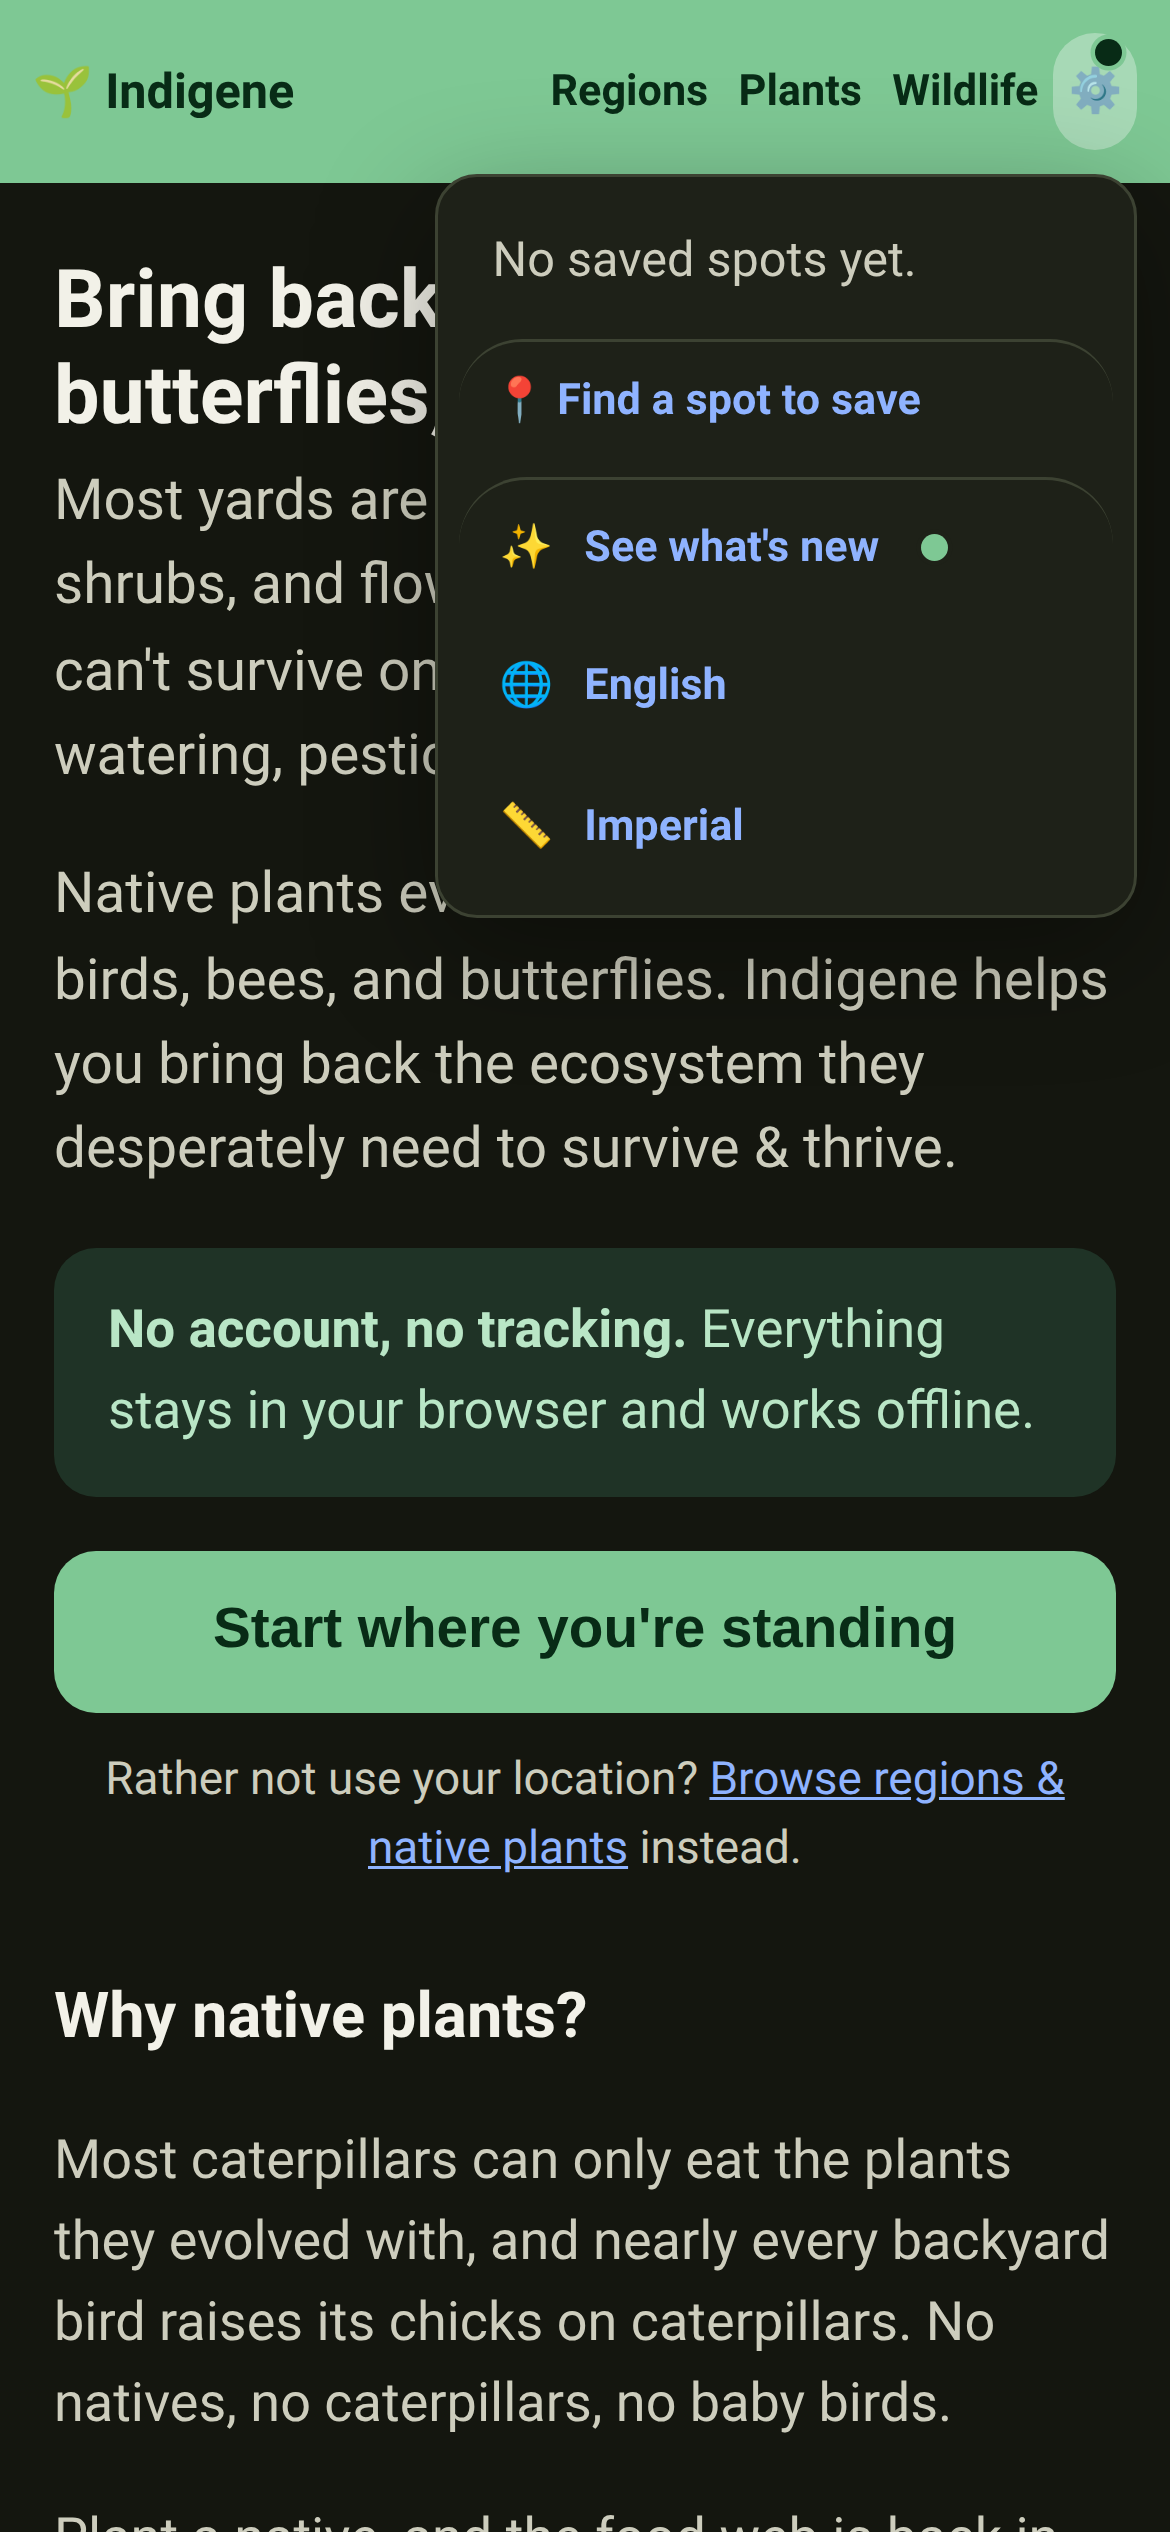
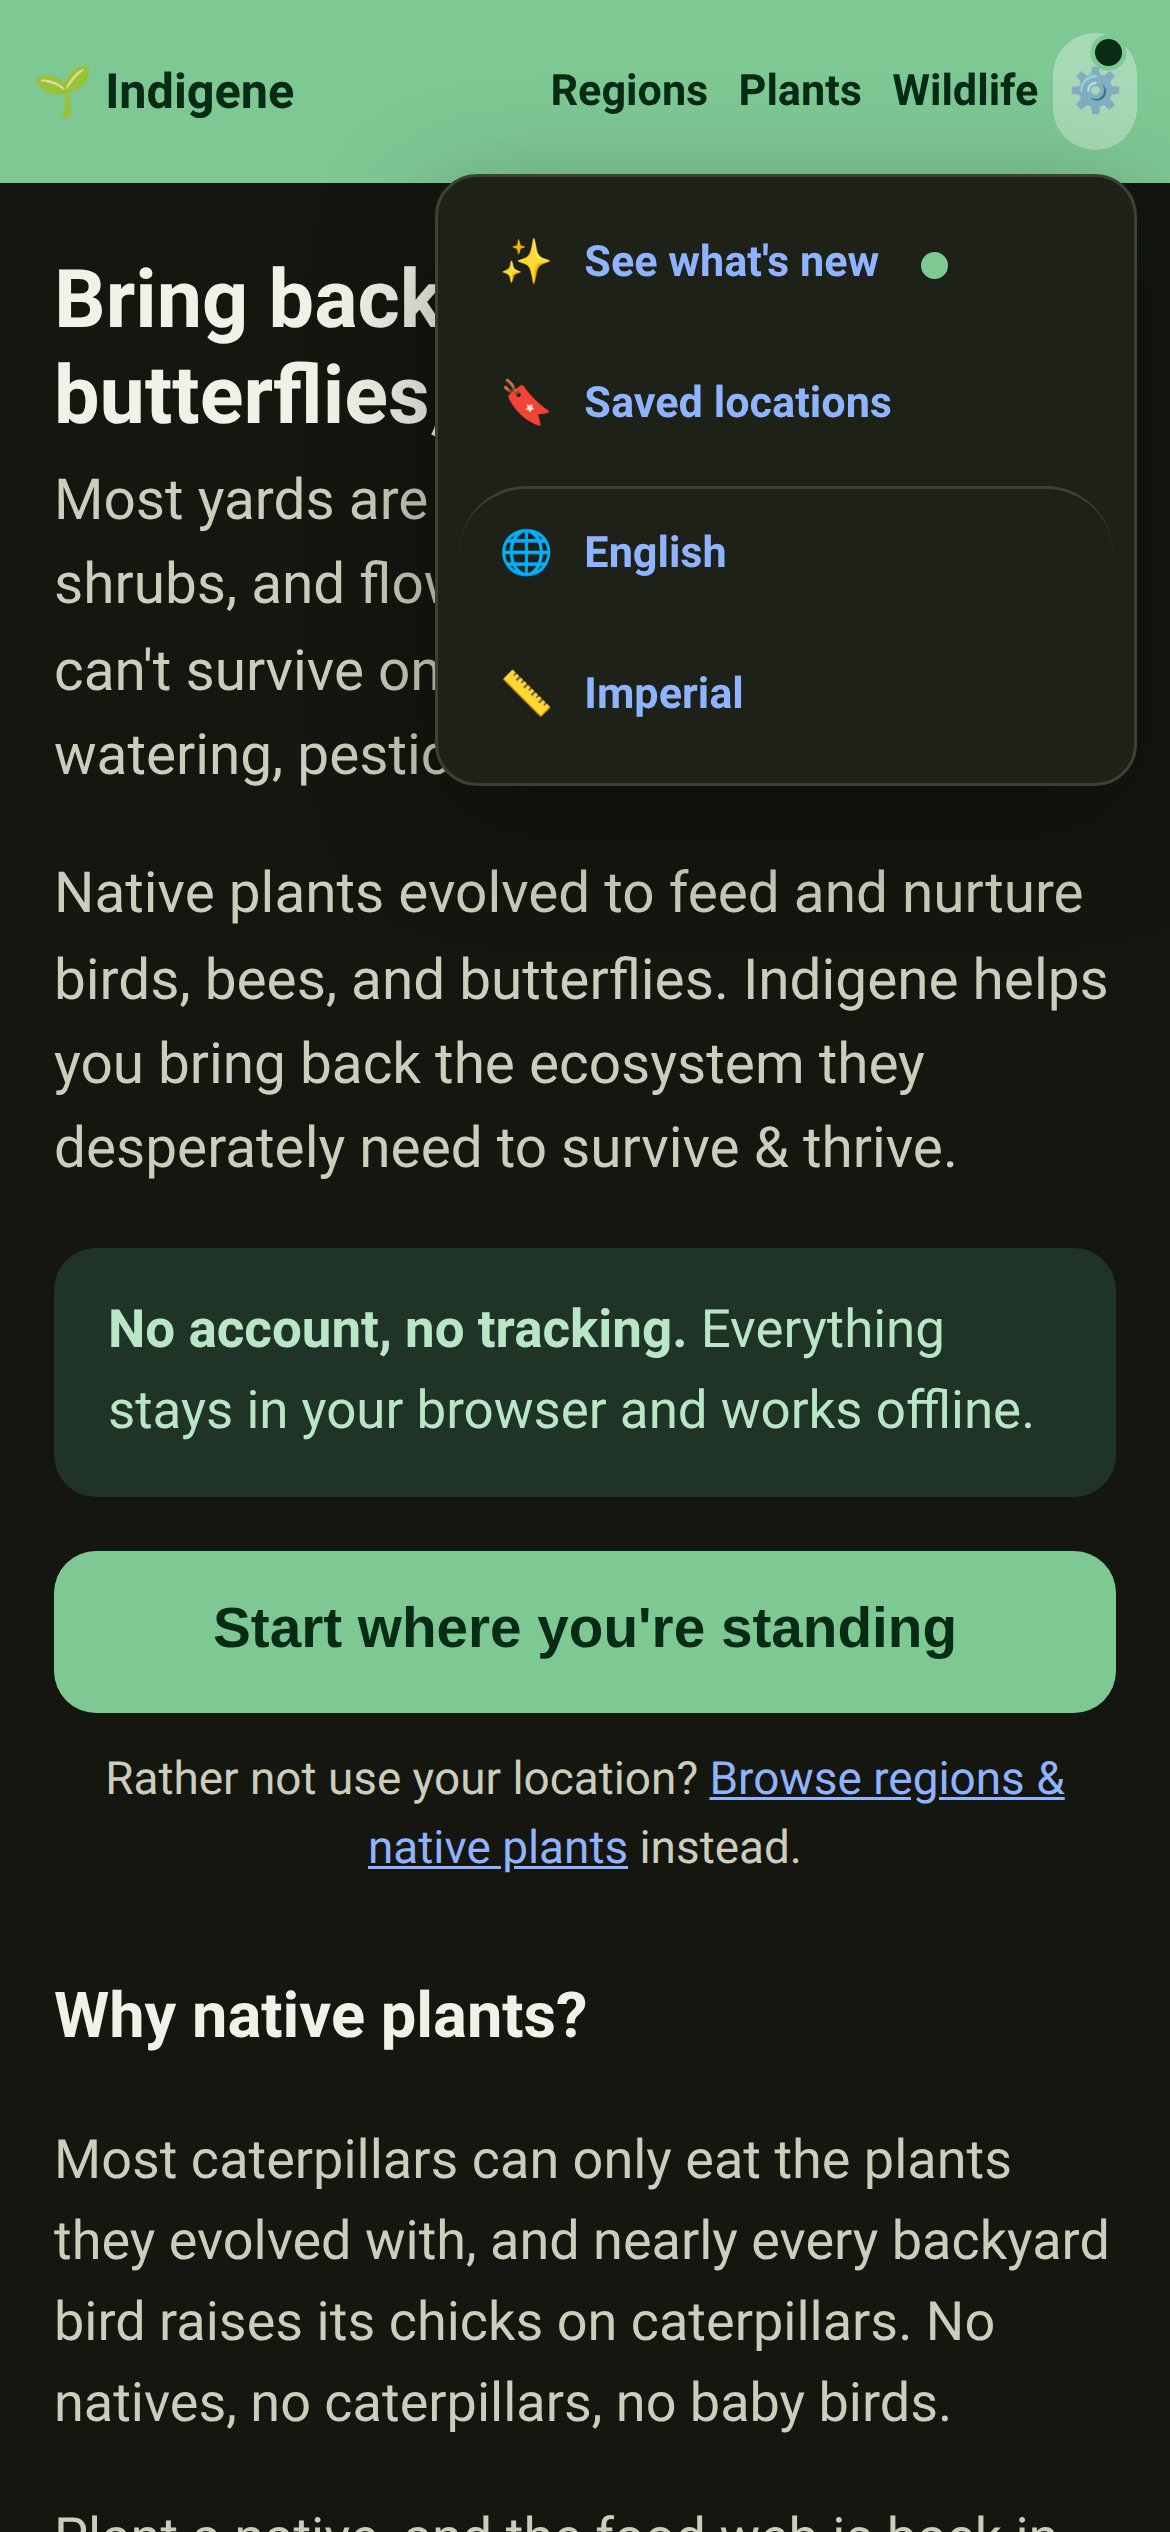
Menu: What's new first, saved spots as a way through
The gear wears the "something's new" dot, so the thing it points at
should be the first row you meet, not the third.

Saved spots stop being a list inside the panel and become one row
through to the Saved page. The list looked like a shortcut and behaved
like a wait: opening the menu opened the database, so the panel needed a
loading state, an error state with a retry, and an empty state — three
screens' worth of behaviour inside a dropdown, for a list the Saved page
already shows better, and which is where opening, renaming and deleting
already lived. The panel is now synchronous and right on the first frame.

The seven savedMenu.* strings go with it, from both locales. The two
settings rows now take their accessible name from the footer's own
"Language: {value}" phrases rather than gluing a colon on in code, which
had been imposing English colon spacing on French.

Verified at 360 and 390px: four rows in order, each on one line, no
overflow, dot on the first row only, and every href intact.

Changed region(s): [[0.4308, 0.0936, 0.8308, 0.2808], [0.3692, 0.312, 0.9231, 0.4056]]

diff --git a/app/src/components/app-menu.ts b/app/src/components/app-menu.ts
@@ -2,20 +2,32 @@
 //
 // It started life as a Saved-locations menu: saved spots used to be a third
 // top-level nav tab, and on a phone that pushed the header past its width. It
-// still holds those, but it is now the app's general menu, because it is the
-// only spare surface in a header measured to the pixel (see the ≤500px rules in
-// styles.css — title + four items with ~25 px of slack at 360 px). Anything
-// that should be reachable from every page without owning a tab belongs here.
-// Today that's three things:
+// is now the app's general menu, because it is the only spare surface in a
+// header measured to the pixel (see the ≤500px rules in styles.css — title +
+// four items with ~25 px of slack at 360 px). Anything that should be reachable
+// from every page without owning a tab belongs here. Today that's four rows, in
+// this order:
 //
-//   1. Your saved spots, as a quick jump back without leaving for the full
-//      Saved page (which stays, for managing and deleting).
-//   2. What's new, which is here because the gear is what wears the "something
-//      landed since you were last here" dot on every screen — a badge you can
-//      see from anywhere needs somewhere to go when you press it.
-//   3. Language and units, one row each — the settings most likely to be
+//   1. What's new, first, because the gear is what wears the "something landed
+//      since you were last here" dot on every screen — a badge you can see from
+//      anywhere needs the thing it points at to be the first thing you meet.
+//   2. Saved spots, as a way through to the Saved page.
+//   3–4. Language and units, one row each — the settings most likely to be
 //      wanted by someone who can't read the page they're looking at, and
 //      therefore the ones worst served by living only at the bottom of it.
+//
+// ## Why the panel no longer lists the spots themselves
+//
+// It used to show up to six saved spots inline, each a button that reopened
+// that spot. That made the menu the only asynchronous thing in the header: it
+// had to open the database on every press, and therefore had to have a loading
+// state, an error state with a retry, and an empty state — three screens' worth
+// of behaviour, inside a dropdown, for a list the Saved page already shows
+// better. A link costs one row and is right on the first frame.
+//
+// The reopen-a-spot gesture isn't lost, it moved: it lives on the Saved page,
+// which is where managing and deleting already were, so there is one place that
+// does all of it rather than a fast path that does some of it.
 //
 // The icon follows the contents: a bookmark promised saved spots and nothing
 // else, so it became a gear as soon as the panel held two unlike things.
@@ -24,14 +36,10 @@
 // fight and we control open/close: refresh on open, close on outside-click, on
 // Escape, on selection, and on navigation (the router calls closeAppMenu).
 import { el } from "../ui";
-import { listSpots } from "../db";
-import { openSavedSpot } from "../state";
 import { t } from "../lib/i18n";
 import { langLabel, unitsLabel } from "./chrome";
 import { hasUnseenRelease } from "../lib/visits";
 import { newDot } from "./new-dot";
-
-const MAX_IN_MENU = 6;
 
 let btn: HTMLButtonElement | null = null;
 let panel: HTMLElement | null = null;
@@ -68,7 +76,7 @@ function openMenu(): void {
   if (!btn || !panel) return;
   btn.setAttribute("aria-expanded", "true");
   panel.hidden = false;
-  void populate(panel);
+  fill(panel);
 }
 
 /** Close the menu if it's open — also called by the router on every navigation. */
@@ -79,23 +87,22 @@ export function closeAppMenu(): void {
 }
 
 /**
- * The language and units rows at the foot of the panel — two of them, matching
- * the footer, because they are two settings and not one "locale". A single
- * "English · Imperial" line invites exactly the assumption the app spends a
- * whole comment block in `prefs-controls.ts` refusing to make.
+ * One row of the panel: an icon, a label, and optionally the "there's something
+ * new" dot.
  *
- * Each shows its current *value* rather than the word "Settings", for the
- * reader these rows are really for: someone looking at a page in a language
- * they don't read recognises "English" as the thing to press long before they
- * parse a label they can't read either. The icon carries the other half of the
- * meaning, and the accessible name spells out both.
+ * The two settings rows show their current *value* rather than the word
+ * "Settings", for the reader they're really for: someone looking at a page in a
+ * language they don't read recognises "English" as the thing to press long
+ * before they parse a label they can't read either. The icon carries the other
+ * half of the meaning, and `label` spells out both for the accessible name —
+ * which is why a row whose visible text is already its own full name (What's
+ * new, Saved spots) passes no `label` at all rather than repeating itself.
  */
-function prefRow(
+function row(
   href: string,
   icon: string,
-  value: string,
-  setting: string,
-  divide: boolean
+  text: string,
+  { label, divide = false, dot = false }: { label?: string; divide?: boolean; dot?: boolean } = {}
 ): HTMLElement {
   return el(
     "a",
@@ -103,109 +110,43 @@ function prefRow(
       href,
       role: "menuitem",
       class: divide ? "nav-menu-pref nav-menu-divide" : "nav-menu-pref",
-      "aria-label": `${setting}: ${value}`,
+      ...(label ? { "aria-label": label } : {}),
     },
-    [el("span", { class: "nav-menu-pref-icon", "aria-hidden": "true" }, icon), value]
-  );
-}
-
-/**
- * The What's new row.
- *
- * It lives here rather than only in the footer because the gear is what carries
- * the dot on every screen, and a badge that leads nowhere when you press it is
- * a puzzle. The label is the destination and nothing else — no version number,
- * no count — so its width never depends on what happens to have shipped (see
- * CLAUDE.md's one-line rule); the dot beside it is what says there's something
- * to read, and the words it carries are read aloud with the link.
- *
- * A real path, not a hash route: the notes are their own page. The base is read
- * off the footer's existing link, which Vite has already resolved, for the same
- * reason `chrome.ts` does it — rebuilding it here would get the base wrong on a
- * project Pages site.
- */
-function whatsNewRow(unseen: boolean): HTMLElement {
-  const href =
-    document
-      .querySelector<HTMLAnchorElement>('#footer-text a[href$="release-notes/"]')
-      ?.getAttribute("href") ?? "release-notes/";
-  return el(
-    "a",
-    { href, role: "menuitem", class: "nav-menu-pref nav-menu-divide" },
     [
-      el("span", { class: "nav-menu-pref-icon", "aria-hidden": "true" }, "✨"),
-      t("footer.releaseNotes"),
-      ...(unseen ? [newDot()] : []),
+      el("span", { class: "nav-menu-pref-icon", "aria-hidden": "true" }, icon),
+      text,
+      ...(dot ? [newDot()] : []),
     ]
   );
 }
 
-/** Whatever the saved-spots lookup produced, then What's new and the two prefs
- *  rows — which are in the panel in every state, including while the database
- *  is still answering. Only the first carries the rule that divides them from
- *  above. */
-function fill(target: HTMLElement, ...saved: Node[]): void {
+/**
+ * The whole panel, drawn on every open so the dot and the two setting values
+ * are current. Synchronous — nothing here waits on storage.
+ *
+ * What's new is a real path, not a hash route: the notes are their own page.
+ * The base is read off the footer's existing link, which Vite has already
+ * resolved, for the same reason `chrome.ts` does it — rebuilding it here would
+ * get the base wrong on a project Pages site.
+ */
+function fill(target: HTMLElement): void {
+  const notesHref =
+    document
+      .querySelector<HTMLAnchorElement>('#footer-text a[href$="release-notes/"]')
+      ?.getAttribute("href") ?? "release-notes/";
   target.replaceChildren(
-    ...saved,
-    whatsNewRow(hasUnseenRelease()),
-    prefRow("#/settings/language", "🌐", langLabel(), t("settings.language"), false),
-    prefRow("#/settings/units", "📏", unitsLabel(), t("settings.units"), false)
-  );
-}
-
-async function populate(target: HTMLElement): Promise<void> {
-  fill(target, el("p", { class: "nav-menu-status" }, t("savedMenu.loading")));
-  const spots = await listSpots().catch(() => null);
-  if (target.hidden) return; // closed again before the load finished
-
-  if (spots === null) {
-    // Storage answered with an error or not at all (db.open has a watchdog,
-    // so this settles within a couple of seconds either way). Leave a way
-    // back in: retrying re-opens the database from scratch.
-    fill(
-      target,
-      el("p", { class: "nav-menu-status" }, t("savedMenu.error")),
-      el("button", {
-        type: "button",
-        role: "menuitem",
-        class: "nav-menu-all",
-        onClick: () => void populate(target),
-      }, t("savedMenu.retry")),
-    );
-    return;
-  }
-  if (!spots.length) {
-    fill(
-      target,
-      el("p", { class: "nav-menu-status" }, t("savedMenu.empty")),
-      el("a", { href: "#/location", role: "menuitem", class: "nav-menu-all" }, t("savedMenu.findSpot")),
-    );
-    return;
-  }
-
-  const items = spots.slice(0, MAX_IN_MENU).map((s) =>
-    el("button", {
-      type: "button",
-      role: "menuitem",
-      class: "nav-menu-item",
-      onClick: () => {
-        closeAppMenu();
-        openSavedSpot(s);
-      },
-    }, [
-      el("span", { class: "nav-menu-item-label" }, s.label),
-      el("span", { class: "nav-menu-item-sub" }, `${s.lat.toFixed(3)}, ${s.lon.toFixed(3)}`),
-    ])
-  );
-
-  // The heading earns its place only here: with spots above it and a language
-  // row below, the panel holds two unlike things and has to say which is which.
-  // The empty and error states already name themselves in a sentence.
-  fill(
-    target,
-    el("p", { class: "nav-menu-heading" }, t("nav.savedLocations")),
-    ...items,
-    el("a", { href: "#/saved", role: "menuitem", class: "nav-menu-all" },
-      spots.length > MAX_IN_MENU ? t("savedMenu.seeAll", { n: spots.length }) : t("savedMenu.manage")),
+    row(notesHref, "✨", t("footer.releaseNotes"), { dot: hasUnseenRelease() }),
+    row("#/saved", "🔖", t("nav.savedLocations")),
+    // The accessible name is the whole phrase — "Language: English" — from the
+    // dictionary rather than glued together here with a colon, because the
+    // punctuation around a colon is a language's own business (French wants a
+    // space before it). These are the same two keys the footer uses.
+    row("#/settings/language", "🌐", langLabel(), {
+      label: t("footer.languageIs", { value: langLabel() }),
+      divide: true,
+    }),
+    row("#/settings/units", "📏", unitsLabel(), {
+      label: t("footer.unitsIs", { value: unitsLabel() }),
+    })
   );
 }

diff --git a/app/src/locales/fr.ts b/app/src/locales/fr.ts
@@ -167,17 +167,6 @@ export const fr: Dict = {
   "welcome.openSaved.other": "Ouvrir les lieux enregistrés ({n})",
 
   // ---------------------------------------------------------------------
-  // Menu « Lieux » de l'en-tête.
-  // ---------------------------------------------------------------------
-  "savedMenu.loading": "Chargement…",
-  "savedMenu.error": "Impossible d'ouvrir vos lieux. Fermer les autres onglets Indigene peut aider.",
-  "savedMenu.retry": "Réessayer",
-  "savedMenu.empty": "Aucun lieu enregistré pour l'instant.",
-  "savedMenu.findSpot": "📍 Trouver un lieu à enregistrer",
-  "savedMenu.seeAll": "Voir les {n} lieux →",
-  "savedMenu.manage": "Gérer mes lieux →",
-
-  // ---------------------------------------------------------------------
   // Parcourir.
   // ---------------------------------------------------------------------
   "browse.docTitle": "Parcourir les régions et les plantes indigènes — Indigene",

diff --git a/app/src/locales/en.ts b/app/src/locales/en.ts
@@ -160,17 +160,6 @@ export const en = {
   "welcome.openSaved.other": "Open saved spots ({n})",
 
   // ---------------------------------------------------------------------
-  // The header's Saved menu.
-  // ---------------------------------------------------------------------
-  "savedMenu.loading": "Loading…",
-  "savedMenu.error": "Couldn't open saved spots. Closing other Indigene tabs may help.",
-  "savedMenu.retry": "Try again",
-  "savedMenu.empty": "No saved spots yet.",
-  "savedMenu.findSpot": "📍 Find a spot to save",
-  "savedMenu.seeAll": "See all {n} saved →",
-  "savedMenu.manage": "Manage saved →",
-
-  // ---------------------------------------------------------------------
   // Browse (the no-location entrance).
   // ---------------------------------------------------------------------
   "browse.docTitle": "Browse regions & native plants — Indigene",

diff --git a/CHANGELOG.md b/CHANGELOG.md
@@ -51,6 +51,16 @@ subtitle on the What's new page.
 
 ### Changed
 
+- **The ⚙ menu opens with what's new, and saved spots are one row away.**
+  What's new sits at the top, where the dot on the gear points. Underneath it,
+  **Saved spots** is now a single row through to
+  [the Saved page](https://indigene.app/#/saved) rather than a list of your
+  spots inside the menu. The list looked like a shortcut and behaved like a
+  wait: opening the menu had to open the database first, so it could show
+  "Loading…", or an error with a *Try again*, before it showed you anything.
+  The row is simply there, the moment you press the gear, and the Saved page —
+  which is where opening, renaming and deleting a spot already lived — does the
+  rest in one place instead of two.
 - Internal: `lib/visits.ts` owns the record — `indigene.visits` in
   localStorage, holding `seenVersion`, `lastVisitAt` and `visitAt`. localStorage
   rather than the IndexedDB kv store every other memory uses, because this is
@@ -68,8 +78,15 @@ subtitle on the What's new page.
   decide whether to show the dot and the page publishes the latter, so drift
   between them is a wrong badge for everyone, silently; CLAUDE.md already says
   to bump both when cutting a release, and this makes forgetting a build error.
+- Internal: `app-menu.ts` is synchronous now — no `listSpots`, no loading,
+  error/retry or empty states, and the panel is drawn on open rather than
+  populated in two passes. The seven `savedMenu.*` strings it needed go with
+  it, from both locales. The two settings rows take their accessible name from
+  the `footer.languageIs` / `footer.unitsIs` phrases instead of gluing a colon
+  on in code, which had been quietly imposing English spacing on French.
 - Internal: bundle re-measured — 273 KB → 275 KB gzipped, and the four docs
   quoting the figure updated (they had drifted to ~268 KB before this change).
+  Dropping the menu's database path gave ~0.4 KB of that back.
 
 ## [0.19] - 2026-08-01
 
